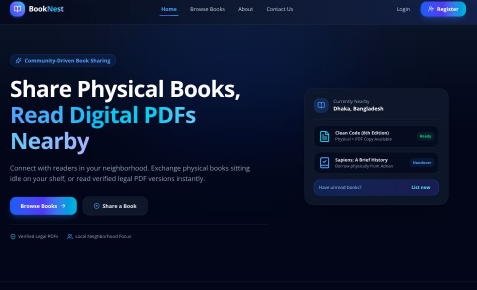
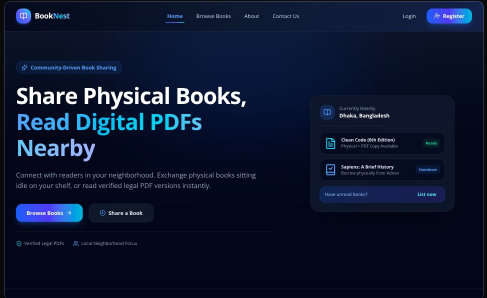
skillhub project photo added

diff --git a/src/app/page.tsx b/src/app/page.tsx
@@ -975,7 +975,7 @@ export default function Home() {
                 {
                   title: "SkillHub",
                   desc: "A production-grade AI-powered EdTech platform with secure authentication, personalized course recommendations, Stripe payments, and intelligent course management.",
-                  img: "https://images.unsplash.com/photo-1498050108023-c5249f4df085?auto=format&fit=crop&w=1200&q=80",
+                  img: "/projects/skillhub.png",
                   tags: [
                     "Next.js",
                     "TypeScript",

diff --git a/src/app/skillhub/page.tsx b/src/app/skillhub/page.tsx
@@ -17,7 +17,7 @@ export default function SkillHubPage() {
           {/* Project Image */}
           <div className="aspect-[16/9] rounded-3xl overflow-hidden mb-8 border border-white/5 bg-surface-container-high/50">
             <img
-              src="https://images.unsplash.com/photo-1498050108023-c5249f4df085?auto=format&fit=crop&w=1200&q=80"
+              src="/projects/skillhub.png"
               alt="SkillHub"
               className="w-full h-full object-cover"
             />
